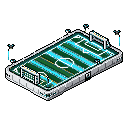
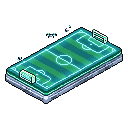
Regenerate pitch_2..10 sprites with consistent elongated 3:2 proportions matching pitch_1

diff --git a/tools/generatePitchArt.py b/tools/generatePitchArt.py
@@ -1,12 +1,12 @@
 #!/usr/bin/env python3
-"""Generate 10 consistent 2D isometric stadium football pitch sprites via PixelLab API.
+"""Generate 10 consistent 2D isometric stadium football pitch sprites via PixelLab v2 Pixen API.
 
 Reads PIXELLAB_API_KEY from .env.local (gitignored) or environment.
 Saves clean transparent 128x128 RGBA PNGs into assets/facilities/pitch_1.png .. pitch_10.png.
 
 Usage:
     python tools/generatePitchArt.py                     # generate all 10
-    python tools/generatePitchArt.py pitch_4 pitch_9     # regenerate specific sprite(s)
+    python tools/generatePitchArt.py pitch_2 pitch_9     # regenerate specific sprite(s)
 """
 
 import base64
@@ -23,89 +23,85 @@ OUT_DIR = ROOT / "assets" / "facilities"
 IMG_SIZE = 128
 
 GLOBAL_RULES = (
-    "Isometric 2:1 sports management game sprite of a standalone rectangular football soccer pitch playing field slab, "
-    "fixed three-quarter top-down view, centered isometric rectangular field slab with goalposts at both ends. "
+    "Isometric 2:1 sports management game sprite of a standalone elongated 3:2 rectangular football soccer pitch slab "
+    "(clearly rectangular and elongated along the diagonal from the bottom-left goal to the top-right goal, narrower across the touchlines, NEVER a square field), "
+    "fixed three-quarter top-down view, centered with generous transparent margin around all four corners so nothing is cropped, "
+    "goals positioned strictly at the bottom-left and top-right ends. "
     "Crisp 16-bit pixel art, clean 1px black outlines, flat cel-shading lit from upper-left, "
-    "no anti-aliasing, no blur, no floor shadow, no outer ground grid, no players, no spectators, no readable text. "
-)
-
-NEGATIVE_DESC = (
-    "stadium grandstands, bleacher seats, roof dome, stone ruins, dungeon, medieval, fantasy, rpg, "
-    "trees, buildings, floor grid, tile grid, magenta background, blur, gradient, anti-aliasing, "
-    "readable text, letters, players, people, characters, crowd, shadow, drop shadow, UI, border"
+    "no anti-aliasing, no blur, no floor shadow, no outer ground grid, no stadium grandstands, no players, no spectators, no readable text. "
 )
 
 LEVELS: list[tuple[str, str]] = [
     (
         "pitch_1",
-        "Compact centered patchy dirt and mud sandlot football pitch slab with generous empty transparent margin around all four corners (entire rectangular slab and both goals fully visible inside frame, never cropped): "
+        "Compact centered patchy dirt and mud sandlot football pitch slab: "
         "rough brown packed earth with sparse patchy tufts of dry yellowish-green weeds, "
         "faint uneven white chalk boundary lines, brown muddy puddle ruts near the center, "
         "and two small crooked rusty metal pipe goalposts with tattered sagging nets at the bottom-left and top-right ends.",
     ),
     (
         "pitch_2",
-        "Basic community meadow grass football pitch slab: "
-        "continuous natural medium-green grass lawn with slightly uneven mowing texture, "
+        "Basic community meadow grass elongated 3:2 rectangular football pitch slab (NOT square): "
+        "continuous natural medium-green meadow grass lawn with subtle mowing texture on a thin brown earth slab, "
         "crisp white painted touchlines, penalty boxes, and center circle, "
-        "simple white painted wooden goal frames with intact white nets at both ends, and tiny red corner flags.",
+        "simple white painted wooden goal frames with intact white nets at the bottom-left and top-right ends, and tiny red corner flags.",
     ),
     (
         "pitch_3",
-        "Manicured striped club turf football pitch slab: "
-        "lush vibrant emerald-green grass mowed in alternating light-green and dark-green horizontal stripes, "
-        "crisp regulation white pitch markings, white aluminum box-net goals at both ends, "
-        "a narrow dark-green turf perimeter border, and two compact silver metal team dugouts along the near touchline.",
+        "Manicured striped club turf elongated 3:2 rectangular football pitch slab (NOT square): "
+        "lush vibrant emerald-green grass mowed in alternating light-green and dark-green stripes across the field, "
+        "crisp regulation white pitch markings, white aluminum box-net goals at the bottom-left and top-right ends, "
+        "a narrow dark-green turf perimeter border, and two compact silver metal team dugouts along the near bottom-right touchline.",
     ),
     (
         "pitch_4",
-        "Pro stadium heated checkerboard lawn football pitch slab: "
+        "Pro stadium heated checkerboard lawn elongated 3:2 rectangular football pitch slab (NOT square): "
         "rich velvety checkerboard-mowed emerald stadium grass with crisp white markings, "
-        "surrounded by a clean royal-blue synthetic running-track apron and low perimeter sponsor boards, "
-        "sleek cantilevered pro white goals, recessed glass-covered team benches, and four slim corner pole floodlights.",
+        "surrounded by a narrow royal-blue synthetic track apron and low perimeter sponsor boards, "
+        "sleek cantilevered pro white goals at the bottom-left and top-right ends, recessed glass-covered team benches along the touchline, and four slim corner pole floodlights.",
     ),
     (
         "pitch_5",
-        "Championship hybrid grass-synthetic football pitch slab: "
+        "Championship hybrid grass-synthetic elongated 3:2 rectangular football pitch slab (NOT square): "
         "pristine championship-grade bi-tone striped green hybrid turf with crisp white pitch markings, "
-        "dark charcoal perimeter apron lined with glowing cyan-and-gold digital LED perimeter ad boards, "
-        "sunken luxury glass dugout shelters along the touchline, and subtle pop-up sprinkler nozzles along the edge.",
+        "narrow dark charcoal perimeter apron lined with glowing cyan-and-gold digital LED perimeter ad boards, "
+        "white goals at the bottom-left and top-right ends, sunken luxury glass dugout shelters along the near touchline, and subtle pop-up sprinkler nozzles along the edge.",
     ),
     (
         "pitch_6",
-        "All-weather reinforced arena turf football pitch slab: "
-        "immaculate vivid green arena turf with laser-straight glowing white pitch lines, "
+        "All-weather reinforced arena turf elongated 3:2 rectangular football pitch slab (NOT square): "
+        "immaculate vivid green striped arena turf with laser-straight glowing white pitch lines, "
         "surrounded by a sleek multi-tiered dark metallic and glass perimeter curb with continuous glowing cyan and gold LED ribbon boards, "
-        "aerodynamic tensioned white goal nets with camera pods, and recessed climate-control vents along the border.",
+        "aerodynamic tensioned white goal nets with camera pods at the bottom-left and top-right ends, and recessed climate-control vents along the border.",
     ),
     (
         "pitch_7",
-        "Smart-sensor telemetry football pitch slab: "
-        "vivid emerald turf with subtle glowing cyan optical tracking sensor nodes embedded at the corners and penalty spots, "
-        "brushed chrome and dark smart-glass perimeter containment wall with small holographic tactical replay projectors, "
-        "compact robotic ball-retriever docks on the sidelines, and sleek silver corner laser-calibration pylons.",
+        "Smart-sensor telemetry elongated 3:2 rectangular football pitch slab (NOT square): "
+        "vivid emerald striped turf with subtle glowing cyan optical tracking sensor nodes at the corners and penalty spots, "
+        "sleek brushed chrome and dark smart-glass perimeter containment wall with compact holographic tactical replay projectors, "
+        "white goals at the bottom-left and top-right ends, tiny robotic ball-retriever docks on the sidelines, and slim silver corner laser-calibration pylons.",
     ),
     (
         "pitch_8",
-        "Bio-engineered luminescent nano-turf football pitch slab: "
+        "Bio-engineered luminescent nano-turf elongated 3:2 rectangular football pitch slab (NOT square): "
         "ultra-dense deep emerald and teal bio-engineered nano-turf emitting a crisp glowing cyan bioluminescent light along all pitch lines and the center circle, "
-        "framed by sleek white-and-titanium armored perimeter walls, glowing cyan energy-field goal frames, "
+        "framed by sleek white-and-titanium armored perimeter walls, glowing cyan energy-field goal frames at the bottom-left and top-right ends, "
         "and small hovering sideline camera drones.",
     ),
     (
         "pitch_9",
-        "Sci-fi anti-gravity hover-field football pitch slab: "
-        "elevated emerald-and-cyan playing field slab hovering clearly on glowing blue plasma anti-gravity thrusters beneath a beveled titanium perimeter frame, "
-        "low translucent hexagonal cyan energy containment barriers along the touchlines, glowing plasma-arc goalposts, "
-        "and four tall glowing cyan corner energy-spire floodlights.",
+        "Sci-fi anti-gravity hover-field elongated 3:2 rectangular football pitch slab (NOT square): "
+        "elevated emerald-and-cyan elongated rectangular playing field slab hovering clearly on glowing blue plasma anti-gravity thrusters beneath a beveled titanium perimeter frame, "
+        "low translucent hexagonal cyan energy containment barriers along the long touchlines, glowing plasma-arc goalposts at the bottom-left and top-right ends, "
+        "and four slim glowing cyan corner energy-spire floodlights.",
     ),
     (
         "pitch_10",
-        "Apex galactic coliseum arena football pitch slab: "
+        "Apex galactic coliseum arena elongated 3:2 rectangular football pitch slab (NOT square): "
         "radiant cosmic-emerald energy turf interwoven with glowing gold and royal-purple geometric light conduits, "
-        "ornate white-and-gold cybernetic perimeter architecture around the rectangular field, crystalline golden-cyan energy-beam goal frames, "
+        "ornate white-and-gold cybernetic perimeter trim around the elongated rectangular field, crystalline golden-cyan energy-beam goal frames at the bottom-left and top-right ends, "
         "a hovering glowing holographic golden championship crest projected above the center circle, "
-        "and four monumental crowned white-and-gold light beacons at the corners.",
+        "and four slim crowned white-and-gold light beacons at the four corners.",
     ),
 ]
 
@@ -139,57 +135,30 @@ def extract_png_bytes(resp_json: dict) -> bytes:
     raise ValueError(f"Unrecognized PixelLab response keys: {list(resp_json.keys())}")
 
 
-def generate_level(api_key: str, prompt: str, use_pixen: bool = False) -> bytes:
-    full_desc = GLOBAL_RULES + prompt
-    pixflux_req = (
-        "https://api.pixellab.ai/v1/generate-image-pixflux",
-        {
-            "description": full_desc,
-            "negative_description": NEGATIVE_DESC,
-            "image_size": {"width": IMG_SIZE, "height": IMG_SIZE},
-            "view": "high top-down",
-            "direction": "south-east",
-            "outline": "single color black outline",
-            "shading": "basic shading",
-            "detail": "high detail",
-            "no_background": True,
+def generate_level(api_key: str, prompt: str) -> bytes:
+    url = "https://api.pixellab.ai/v2/create-image-pixen"
+    payload = {
+        "description": GLOBAL_RULES + prompt,
+        "image_size": {"width": IMG_SIZE, "height": IMG_SIZE},
+        "no_background": True,
+    }
+    req = urllib.request.Request(
+        url,
+        data=json.dumps(payload).encode("utf-8"),
+        headers={
+            "Authorization": f"Bearer {api_key}",
+            "Content-Type": "application/json",
+            "User-Agent": "swos-port-pitch-gen/3.0",
         },
+        method="POST",
     )
-    pixen_req = (
-        "https://api.pixellab.ai/v2/create-image-pixen",
-        {
-            "description": full_desc,
-            "image_size": {"width": IMG_SIZE, "height": IMG_SIZE},
-            "no_background": True,
-        },
-    )
-
-    candidates = [pixen_req, pixflux_req] if use_pixen else [pixflux_req, pixen_req]
-
-    last_err = None
-    for url, payload in candidates:
-        req = urllib.request.Request(
-            url,
-            data=json.dumps(payload).encode("utf-8"),
-            headers={
-                "Authorization": f"Bearer {api_key}",
-                "Content-Type": "application/json",
-                "User-Agent": "swos-port-pitch-gen/1.0",
-            },
-            method="POST",
-        )
-        try:
-            with urllib.request.urlopen(req, timeout=120) as resp:
-                data = json.loads(resp.read().decode("utf-8"))
-                return extract_png_bytes(data)
-        except urllib.error.HTTPError as e:
-            body = e.read().decode("utf-8", errors="replace")[:350]
-            last_err = f"{url} -> HTTP {e.code}: {body}"
-            if e.code in (401, 402, 403):
-                raise RuntimeError(last_err)
-        except Exception as e:
-            last_err = f"{url} -> {e}"
-    raise RuntimeError(f"PixelLab pitch generation failed: {last_err}")
+    try:
+        with urllib.request.urlopen(req, timeout=120) as resp:
+            data = json.loads(resp.read().decode("utf-8"))
+            return extract_png_bytes(data)
+    except urllib.error.HTTPError as e:
+        body = e.read().decode("utf-8", errors="replace")[:350]
+        raise RuntimeError(f"{url} -> HTTP {e.code}: {body}")
 
 
 def main() -> int:
@@ -197,15 +166,13 @@ def main() -> int:
     OUT_DIR.mkdir(parents=True, exist_ok=True)
 
     args = [a for a in sys.argv[1:] if not a.startswith("--")]
-    use_pixen = "--pixen" in sys.argv[1:]
     wanted = set(args) if args else None
 
     for name, prompt in LEVELS:
         if wanted is not None and name not in wanted:
             continue
-        engine = "pixen-v2" if use_pixen else "pixflux-v1"
-        print(f"[GEN ] {name}.png ({engine}, no_background=True) ...", flush=True)
-        png_bytes = generate_level(api_key, prompt, use_pixen=use_pixen)
+        print(f"[GEN ] {name}.png (pixen-v2, no_background=True) ...", flush=True)
+        png_bytes = generate_level(api_key, prompt)
         out_path = OUT_DIR / f"{name}.png"
         out_path.write_bytes(png_bytes)
         print(f"[ OK ] {name}.png ({len(png_bytes)} bytes)", flush=True)
